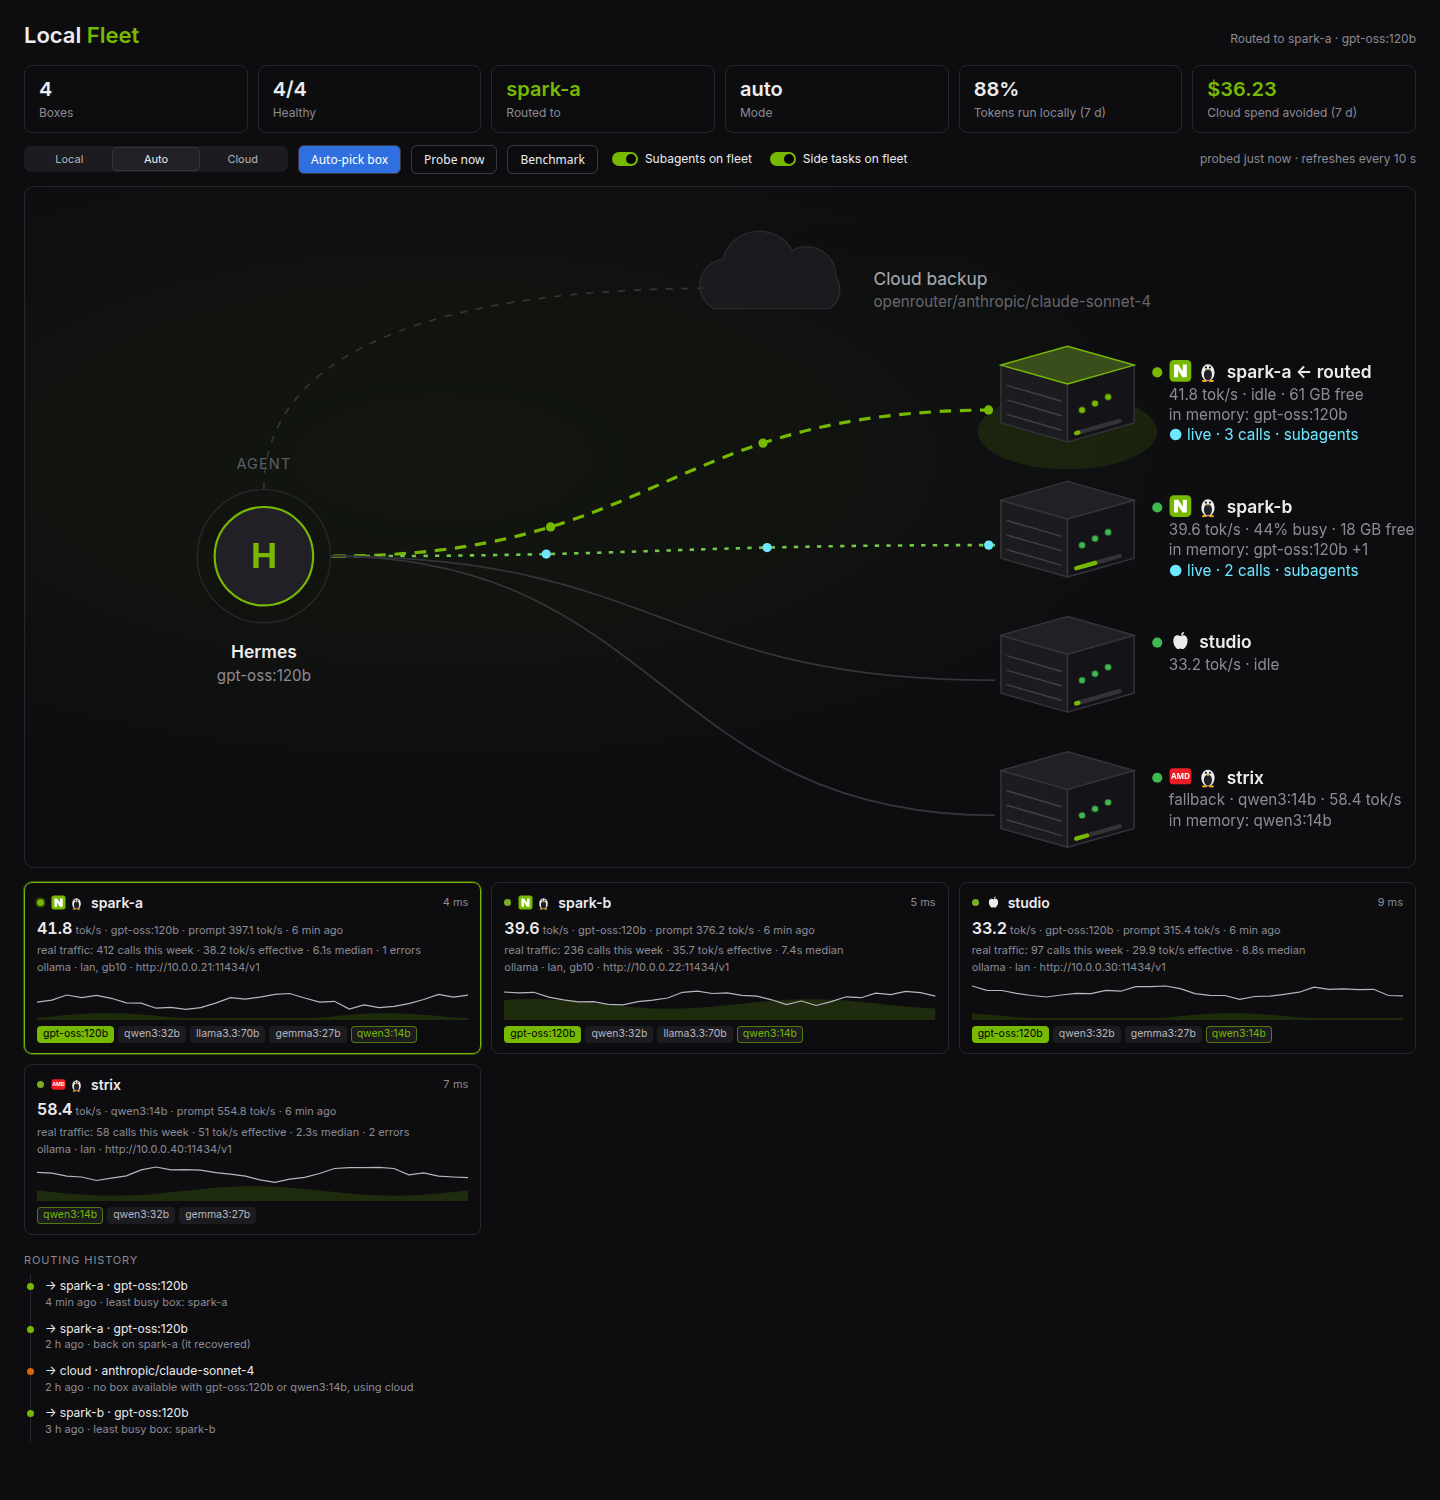
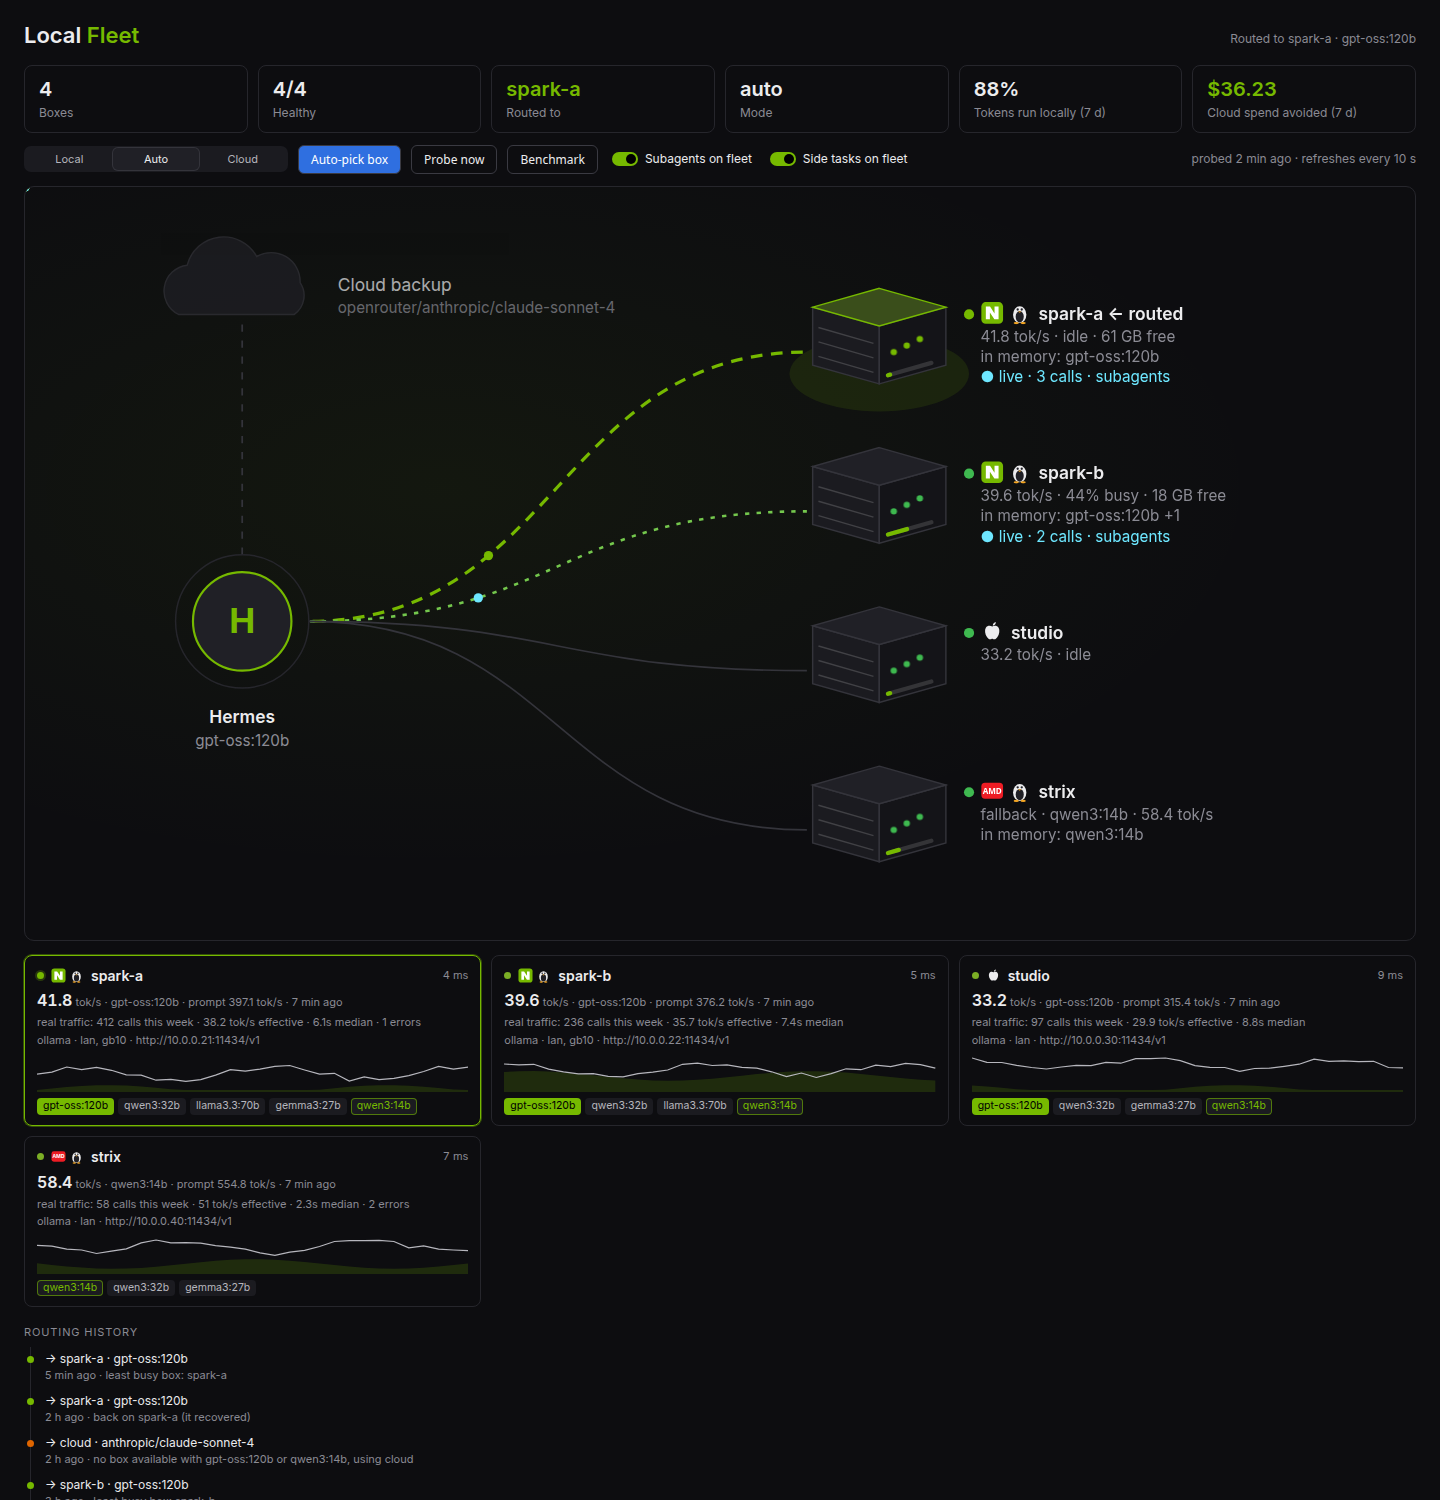
Map: cloud backup straight above the hub, boxes further left, room under the last box
Claude-Session: https://claude.ai/code/session_01QbcLKxfPH7H589C9nimwTC

diff --git a/desktop/plugin.js b/desktop/plugin.js
@@ -340,9 +340,10 @@ function Chip({ ctx }) {
 // SVG only (the plugin import whitelist allows no WebGL libraries); isometric server boxes.
 
 const W = 960
-const H = 470
-const HUB = { x: 165, y: 255 }
-const CLOUD = { x: 520, y: 70 }
+const H = 520
+const HUB = { x: 150, y: 300 }
+// Cloud backup sits straight above the hub, joined by a vertical line.
+const CLOUD = { x: 150, y: 74 }
 
 function nodeTone(n) {
   const h = n.last_health || {}
@@ -369,13 +370,13 @@ const TONE_FILL = { ok: 'var(--ui-green,#3fb950)', warn: 'var(--ui-orange,#df650
 function nodePositions(count) {
   const cols = count > 4 ? 2 : 1
   const rows = Math.ceil(count / cols)
-  const top = 150
-  const span = H - top - 40
+  const top = 110
+  const span = H - top - 80  // room under the last box for its labels
   const step = rows > 1 ? span / (rows - 1) : 0
   return Array.from({ length: count }, (_, i) => {
     const col = cols === 2 ? i % 2 : 0
     const row = cols === 2 ? Math.floor(i / 2) : i
-    return { x: cols === 2 ? 640 + col * 190 : 720, y: rows > 1 ? top + row * step : top + span / 2 }
+    return { x: cols === 2 ? 500 + col * 210 : 590, y: rows > 1 ? top + row * step : top + span / 2 }
   })
 }
 
@@ -421,7 +422,7 @@ function Hub({ s }) {
     jsx('text', { x: HUB.x, y: HUB.y + 8, textAnchor: 'middle', style: { fontSize: 24, fontWeight: 700, fill: SPARK_GREEN }, children: 'H' }),
     jsx('text', { x: HUB.x, y: HUB.y + 70, textAnchor: 'middle', style: { fontWeight: 600 }, children: 'Hermes' }),
     jsx('text', { className: 't2', x: HUB.x, y: HUB.y + 86, textAnchor: 'middle', children: model.length > 30 ? `${model.slice(0, 29)}…` : model }),
-    jsx('text', { className: 't3', x: HUB.x, y: HUB.y - 60, textAnchor: 'middle', children: 'AGENT' })
+    null
   ] })
 }
 
@@ -474,7 +475,7 @@ function FleetMap({ s }) {
   const cloudLive = a.kind === 'cloud'
   const reduced = typeof window !== 'undefined' && window.matchMedia && window.matchMedia('(prefers-reduced-motion: reduce)').matches
   const hubEdge = { x: HUB.x + 46, y: HUB.y }
-  const cloudPath = `M${HUB.x} ${HUB.y - 46} C${HUB.x} ${CLOUD.y + 10}, ${CLOUD.x - 140} ${CLOUD.y}, ${CLOUD.x - 46} ${CLOUD.y}`
+  const cloudPath = `M${HUB.x} ${HUB.y - 46} L${CLOUD.x} ${CLOUD.y + 16}`
   return jsx('div', { className: 'hs-map', children: jsxs('svg', { viewBox: `0 0 ${W} ${H}`, role: 'img', 'aria-label': 'Local Fleet map', children: [
     jsx('path', { id: 'hs-wire-cloud', className: 'hs-wire', 'data-cloud': true, 'data-live': cloudLive, d: cloudPath }),
     cloudLive && !reduced && Packets({ id: 'hs-wire-cloud', color: 'var(--ui-orange,#df6500)' }),
